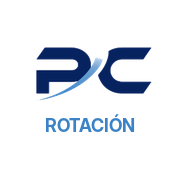
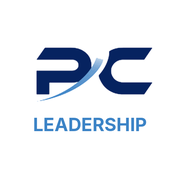
Nombre e ícono: Leadership PCI Miami · Gestión de grupos
Claude-Session: https://claude.ai/code/session_01PZcNHqVSY2DX3TkUN2y8Ym

diff --git a/index.html b/index.html
@@ -9,9 +9,9 @@
 <link rel="apple-touch-icon" href="icons/apple-touch-icon.png">
 <meta name="apple-mobile-web-app-capable" content="yes">
 <meta name="mobile-web-app-capable" content="yes">
-<meta name="apple-mobile-web-app-title" content="Rotación PCI">
+<meta name="apple-mobile-web-app-title" content="Leadership">
 <meta name="apple-mobile-web-app-status-bar-style" content="default">
-<title>Rotación de grupos PCI Miami</title>
+<title>Leadership PCI Miami · Gestión de grupos</title>
 <link href="https://fonts.googleapis.com/css2?family=Barlow+Semi+Condensed:wght@500;600;700&display=swap" rel="stylesheet">
 <style>
 /* Layout: una sola columna de teléfono; pestañas arriba, bloques de 2 h como tarjetas. */
@@ -1507,7 +1507,7 @@ function savedGroups(){const out=[];try{for(let i=0;i<localStorage.length;i++){c
 function grpInfo(g){const P=g.people||[];if(!g.machines)return P.length+' personas · formato anterior, se actualiza al abrir';const ops=P.filter(p=>p.role==='op'&&!p.extra).length,ut=P.filter(p=>isUtil(p)&&!p.extra).length,ex=P.filter(p=>p.extra).length;return ops+' operarios · '+ut+' Utility'+(ex?' · '+ex+' extra':'')}
 function calDef(){return {mode:'ciclo',on:1,off:0,start:todayStr(),wd:[1,2,3,4,5],ov:{},pid:''}}
 function startHTML(){
-let h=`<h1>Rotación de grupos PCI Miami</h1><p class="sub">Cada grupo arma su propia rotación: máquinas, personal, desayuno y almuerzo, vacaciones, mes y reporte. Lo que guardes aquí queda en este dispositivo (y en tu cuenta, si entras con tu correo) y no cambia nada de otros grupos.</p>`;
+let h=`<h1>Leadership PCI Miami</h1><p style="margin:-6px 0 6px;font-weight:700;color:var(--accent)">Gestión de grupos</p><p class="sub">Cada grupo arma su propia rotación: máquinas, personal, desayuno y almuerzo, vacaciones, mes y reporte. Lo que guardes aquí queda en este dispositivo (y en tu cuenta, si entras con tu correo) y no cambia nada de otros grupos.</p>`;
 if(notice){h+=`<div class="${notice.bad?'warn':'toast'}">${esc(notice.t)}</div>`;notice=null}
 h+=avisosHTML()+cloudHTML(false);
 if(window.cloud&&cloud.isAdmin&&cloud.isAdmin())h+=`<button class="btn soft" onclick="openTeam()">👥 Administrar equipo</button>`;

diff --git a/sw.js b/sw.js
@@ -1,5 +1,5 @@
 /* Funciona sin internet: guarda la app en el teléfono. Con internet, siempre busca la versión nueva. */
-const V='rotacion-pci-v25';
+const V='rotacion-pci-v26';
 const CORE=['./','index.html','manifest.webmanifest','cloud.js','icons/icon-192.png','icons/icon-512.png','icons/icon-maskable-512.png','icons/apple-touch-icon.png','icons/favicon-64.png'];
 self.addEventListener('install',e=>{e.waitUntil(caches.open(V).then(c=>c.addAll(CORE)).then(()=>self.skipWaiting()))});
 self.addEventListener('activate',e=>{e.waitUntil(caches.keys().then(ks=>Promise.all(ks.filter(k=>k!==V).map(k=>caches.delete(k)))).then(()=>self.clients.claim()))});
